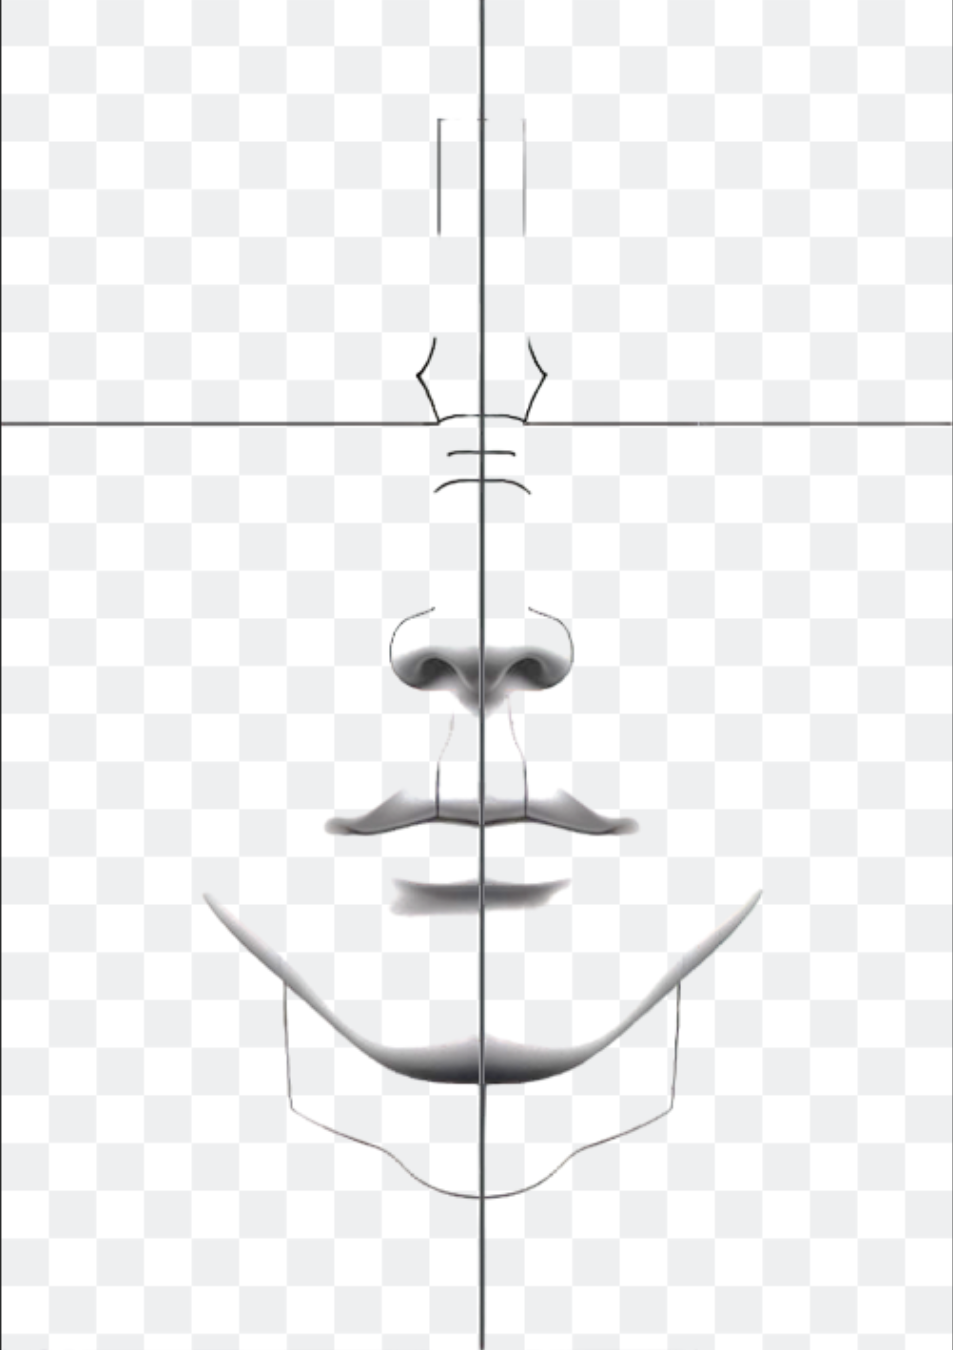
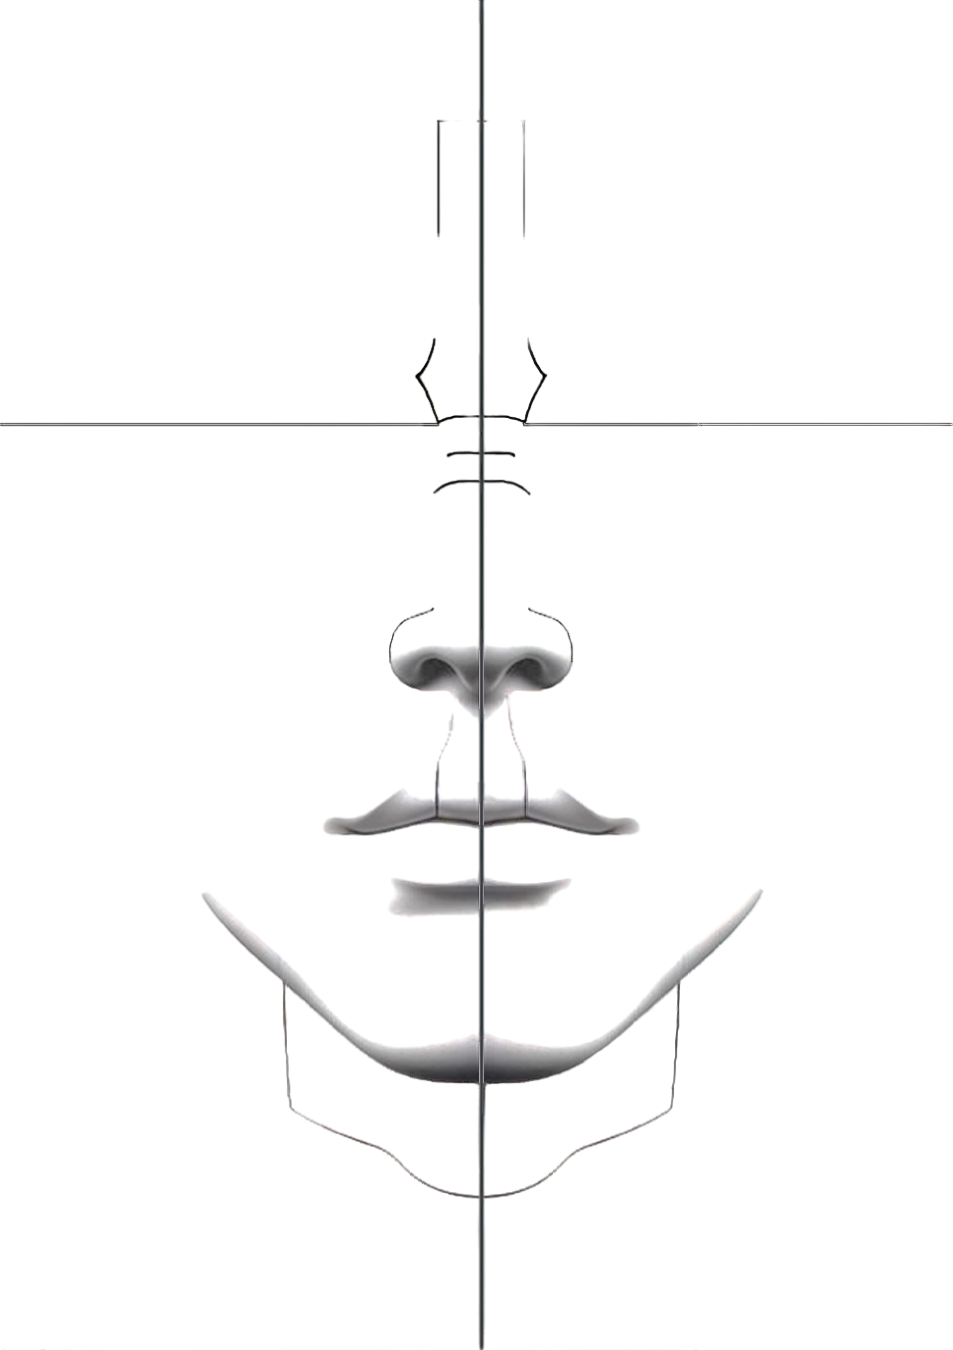
Add Camera grid Image

diff --git a/lib/features/global/camera_widgets.dart b/lib/features/global/camera_widgets.dart
@@ -5,7 +5,14 @@ import 'package:flutter_layout_grid/flutter_layout_grid.dart';
 
 final Map<String, List<Widget>> _allTemplates = {
   "G": [Container(), grid3X3(), grid4X4()],
-  "A": [Container(), Image.asset("assets/Contorno.png"), Container()]
+  "A": [
+    Container(),
+    Image.asset(
+      "assets/FrontFace.png",
+      opacity: AlwaysStoppedAnimation(.25),
+    ),
+    Container()
+  ]
 };
 
 Widget cameraWidget(cameraController, context, templates, pageController) {
